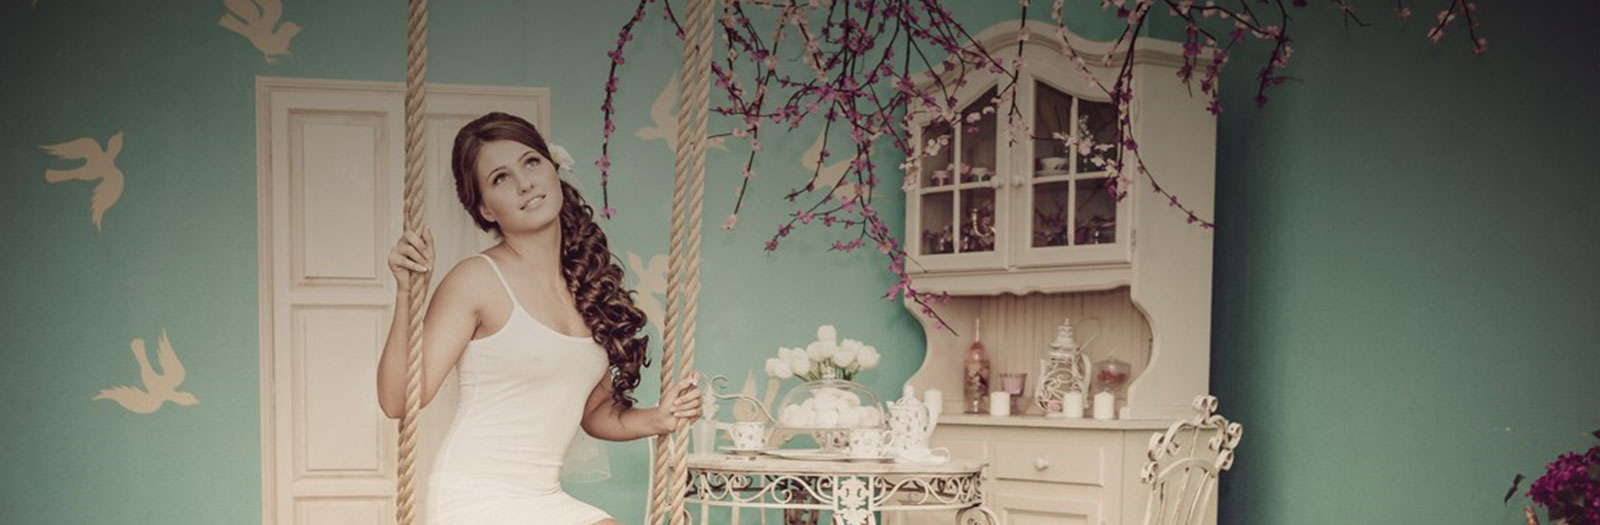
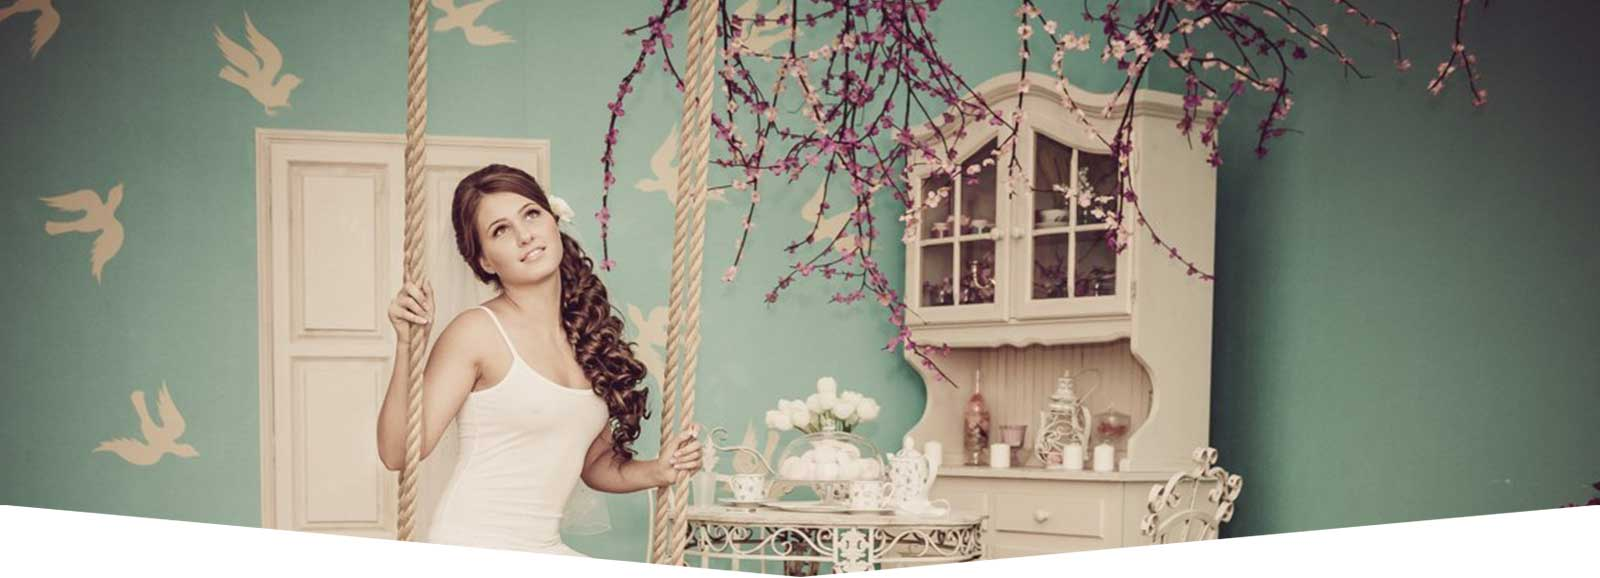
bg-images added

diff --git a/less/blocks/promo.less b/less/blocks/promo.less
@@ -1,6 +1,22 @@
 .promo {
-  background-color: #61663f;
+
+  background-image: url('../img/promo-bg-big.jpg');
+  background-position: bottom center;
+  background-repeat: no-repeat;
+  padding-bottom: 40px;
+  position: relative;
+  &::after {
+    position: absolute;
+    content: '';
+    width: 210px;
+    height: 97px;
+    right: -30px;
+    bottom: 40px;
+    transform: rotate(-30deg);
+    background-image: url('../img/inkle.png')
+  }
 }
+
 
 .promo__wrapper {
   margin: 0 auto;
@@ -10,7 +26,7 @@
   border-radius: 50%;
   border: 7px solid #ffffff;
   margin: 0 25px;
-  margin-top: -70px;
+  margin-top: -75px;
   position: relative;
   z-index: 5;
 }
@@ -50,16 +66,15 @@
   position: absolute;
   color: @red;
   font-size: 60px;
-  top: -10px;
+  top: -35px;
   &:first-child {
-    left: -50px;
-    
+    left: -70px;
     transform: rotate(6deg)
   }
   &:last-child {
-    right: -50px;
-  left: auto;
-  transform: rotate(-6deg)
+    right: -70px;
+    left: auto;
+    transform: rotate(-6deg)
   }
   
 }

diff --git a/less/blocks/about.less b/less/blocks/about.less
@@ -1,21 +1,37 @@
 .about {
   background-color: #383739;
+  background-image: url('../img/about-bg-big.jpg');
+  background-position: top center;
   padding: 10px 0;
+  padding-top: 110px;
+  height: 490px;
+  position: relative;
+  &::after {
+    position: absolute;
+    content: '';
+    width: 210px;
+    height: 97px;
+    left: -50px;
+    bottom: 0;
+    background-image: url('../img/inkle.png')
+  }
 }
 
-
+//inkle.png
 .about__title {
   text-align: center;
   color: @red;
   font-size: 50px;
-  margin-top: 50px;
+  margin-top: 40px;
+  margin-bottom: 20px;
 }
 
 .about__text {
   font-weight: 600;
   color: #ffffff;
   text-align: center;
-  margin-bottom: 30px;
+  margin-bottom: 25px;
+  margin-top: 0;
 }
 
 .about__wrapper {

diff --git a/less/blocks/payment.less b/less/blocks/payment.less
@@ -1,6 +1,32 @@
 .payment {
   background-color: #33262f;
+  padding-top: 110px;
+  background-image: url('../img/payment-bg-big.jpg');
+  background-position: top center;
   text-align: center;
+  position: relative;
+   &::after {
+    position: absolute;
+    content: '';
+    width: 210px;
+    height: 97px;
+    right: -30px;
+    top: -40px;
+    transform: rotate(-30deg);
+    background-image: url('../img/inkle.png')
+  }
+  
+  &::before {
+    position: absolute;
+    content: '';
+    width: 210px;
+    height: 97px;
+    left: -30px;
+    top: -40px;
+    transform: rotate(-30deg);
+    background-image: url('../img/inkle.png')
+  }
+  
 }
 
 .payment__wrapper {

diff --git a/less/blocks/time.less b/less/blocks/time.less
@@ -1,14 +1,20 @@
 .time {
-  background-image: url('../img/time_bg.jpg');
+  background-image: url('../img/time-bg-big.jpg');
+  background-repeat: no-repeat;
+  background-position: top center;
   position: relative;
-  &::before {
+  padding-top: 120px;
+  height: 500px;
+  position: relative;
+   &::after {
     position: absolute;
     content: '';
-    top: -50px;
-    left: 0;
-    right: 0;
-    height: 50px;
-    
+    width: 210px;
+    height: 97px;
+    left: -30px;
+    bottom: 40px;
+    transform: rotate(-30deg);
+    background-image: url('../img/inkle.png')
   }
 }
 

diff --git a/less/blocks/subscribe.less b/less/blocks/subscribe.less
@@ -1,6 +1,20 @@
 .subscribe {
   background-color: #464529;
+  background-image: url('../img/subscribe-bg-big.jpg');
+  background-position: top center;
   padding: 5px 0;
+  padding-top: 120px;
+  position: relative;
+   &::after {
+    position: absolute;
+    content: '';
+    width: 210px;
+    height: 97px;
+    right: -30px;
+    top: -30px;
+    transform: rotate(-30deg);
+    background-image: url('../img/inkle.png')
+  }
 }
 
 .subscribe__form {

diff --git a/less/blocks/connect.less b/less/blocks/connect.less
@@ -1,5 +1,20 @@
 .connect {
   background-color: #5b483c;
+  background-image: url('../img/connect-bg-big.jpg');
+  background-position: top center;
+  padding: 5px 0;
+  padding-top: 120px;
+  position: relative;
+   &::after {
+    position: absolute;
+    content: '';
+    width: 210px;
+    height: 97px;
+    left: -30px;
+    top: -40px;
+    //transform: rotate(-30deg);
+    background-image: url('../img/inkle.png')
+  }
 }
 
 .connect__wrapper {

diff --git a/less/blocks/order.less b/less/blocks/order.less
@@ -1,5 +1,20 @@
 .order {
   background-color: #2f3e4b;
+  background-image: url('../img/order-bg-big.jpg');
+  background-position: top center;
+  padding: 5px 0;
+  padding-top: 120px;
+  position: relative;
+   &::after {
+    position: absolute;
+    content: '';
+    width: 210px;
+    height: 97px;
+    right: -30px;
+    top: -40px;
+    transform: rotate(-30deg);
+    background-image: url('../img/inkle.png')
+  }
 }
 
 .order__text {

diff --git a/less/blocks/closing.less b/less/blocks/closing.less
@@ -1,5 +1,18 @@
 .closing {
   background-color: #5a4755;
+  background-image: url('../img/closing-bg-big.jpg');
+  background-position: bottom center;
+  position: relative;
+   &::after {
+    position: absolute;
+    content: '';
+    width: 210px;
+    height: 97px;
+    right: -30px;
+    top: -40px;
+    transform: rotate(-30deg);
+    background-image: url('../img/inkle.png')
+  }
 }
 
 .closing__wrapper {

diff --git a/less/blocks/describe.less b/less/blocks/describe.less
@@ -66,8 +66,10 @@
 
 .describe__name {
   color: #ffffff;
-  font-size: 26px;
+  font-size: 24px;
+  font-weight: normal;
   margin-bottom: 15px;
+  font-family: 'Georgia', serif;
 }
 
 .describe__exp {
@@ -99,8 +101,10 @@
 }
 
 .describe__phone {
-  margin: 15px 0;
-  font-size: 35px;
+  margin: 13px 0;
+  margin-top: 8px;
+  font-size: 31px;
+  font-family: 'Georgia', serif;
   color: #ffffff;
 }
 

diff --git a/less/blocks/intro.less b/less/blocks/intro.less
@@ -1,7 +1,14 @@
 .intro {
   background-color: #657365;
-  padding: 5px 0;
-  height: 510px;
+  background-image: url('../img/bg-intro-big.jpg');
+  background-position: top center;
+  padding-top: 48px;
+  height: 527px;
+  position: relative;
+  &::before {
+    position: absolute;
+    
+  }
 }
 
 .intro__wrapper {

diff --git a/less/style.less b/less/style.less
@@ -1,6 +1,7 @@
 @import "node_modules/normalize.less/normalize.less";
 @import "fonts/awesome/font-awesome.less";
 @import "variables.less";
+@import "mixins.less";
 @import "sprites/index-sprite.less";
 @import "blocks/main-nav.less";
 @import "blocks/describe.less";

diff --git a/less/blocks/main-nav.less b/less/blocks/main-nav.less
@@ -1,6 +1,12 @@
 .main-nav {
   background-color: @red-dark;
   font-weight: 700;
+  position: fixed;
+  z-index:20;
+  left: 0;
+  right:0;
+  top:0;
+  min-width: 1024px;
 }
 
 .main-nav__wrapper {
